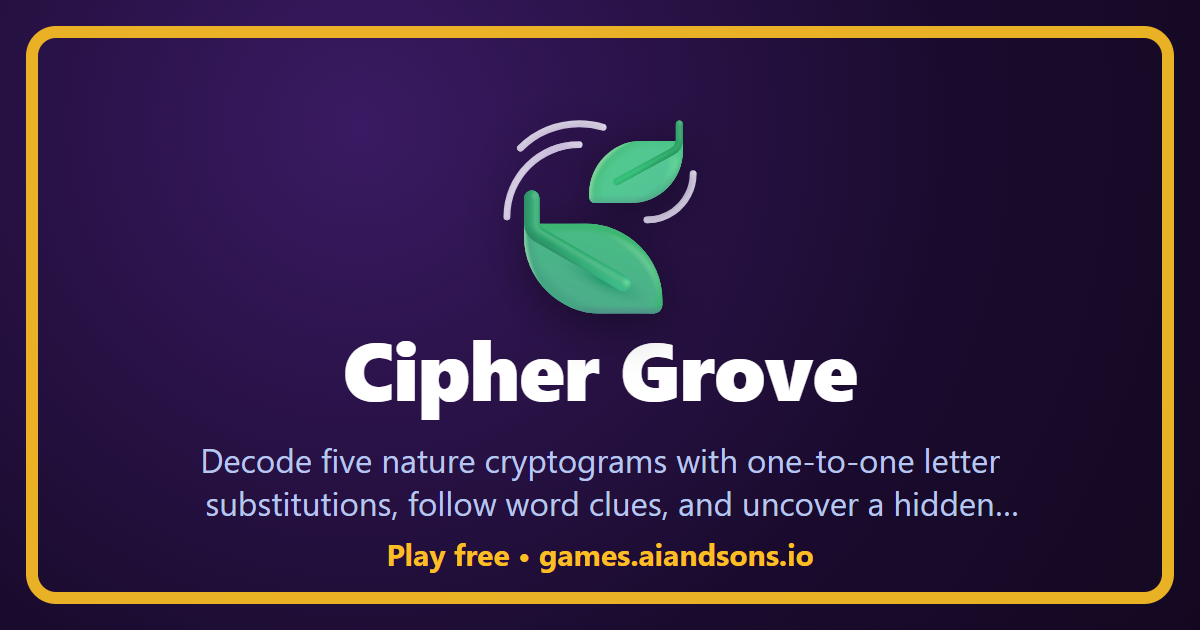
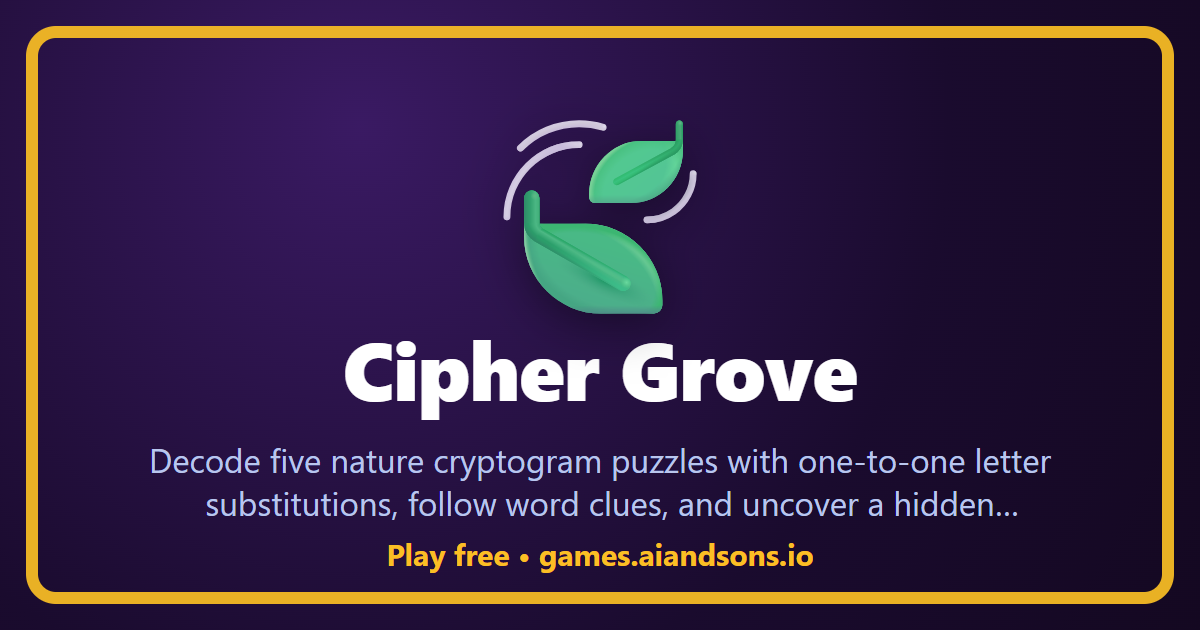
Fix Cipher Grove discovery and edit accounting
Include the new game in puzzle discovery and count bulk-clear and undo letter changes. Repeated full browser matrix, feedback smoke, scoped byte proof and all seven ordered release gates; shared quota behavior independently verified.

Changed region(s): [[0.1233, 0.6937, 0.8942, 0.754]]

diff --git a/ciphergrove/index.html b/ciphergrove/index.html
@@ -5,10 +5,10 @@
 </style>
 
   <!-- SEO:BEGIN -->
-  <meta name="description" content="Decode five nature cryptograms with one-to-one letter substitutions, follow word clues, and uncover a hidden woodland message. Play for free on AI and Sons Games.">
+  <meta name="description" content="Decode five nature cryptogram puzzles with one-to-one letter substitutions, follow word clues, and uncover a hidden woodland message. Play for free on AI and Sons Games.">
   <meta name="robots" content="index,follow,max-image-preview:large,max-snippet:-1,max-video-preview:-1">
   <meta property="og:title" content="Cipher Grove | AI and Sons Games">
-  <meta property="og:description" content="Decode five nature cryptograms with one-to-one letter substitutions, follow word clues, and uncover a hidden woodland message. Play for free on AI and Sons Games.">
+  <meta property="og:description" content="Decode five nature cryptogram puzzles with one-to-one letter substitutions, follow word clues, and uncover a hidden woodland message. Play for free on AI and Sons Games.">
   <meta property="og:type" content="website">
   <meta property="og:url" content="https://games.aiandsons.io/ciphergrove">
   <meta property="og:image" content="https://games.aiandsons.io/assets/og/ciphergrove.png">
@@ -18,10 +18,10 @@
   <meta property="og:locale" content="en_US">
   <meta name="twitter:card" content="summary_large_image">
   <meta name="twitter:title" content="Cipher Grove | AI and Sons Games">
-  <meta name="twitter:description" content="Decode five nature cryptograms with one-to-one letter substitutions, follow word clues, and uncover a hidden woodland message. Play for free on AI and Sons Games.">
+  <meta name="twitter:description" content="Decode five nature cryptogram puzzles with one-to-one letter substitutions, follow word clues, and uncover a hidden woodland message. Play for free on AI and Sons Games.">
   <meta name="twitter:image" content="https://games.aiandsons.io/assets/og/ciphergrove.png">
   <link rel="canonical" href="https://games.aiandsons.io/ciphergrove">
-  <script type="application/ld+json" data-seo-managed="true">{"@context":"https://schema.org","@type":"VideoGame","name":"Cipher Grove","description":"Decode five nature cryptograms with one-to-one letter substitutions, follow word clues, and uncover a hidden woodland message. Play for free on AI and Sons Games.","url":"https://games.aiandsons.io/ciphergrove","gamePlatform":"Web Browser","genre":"Arcade","applicationCategory":"Game","inLanguage":"en-US","isAccessibleForFree":true,"publisher":{"@id":"https://games.aiandsons.io#organization"},"isPartOf":{"@id":"https://games.aiandsons.io#games"}}</script>
+  <script type="application/ld+json" data-seo-managed="true">{"@context":"https://schema.org","@type":"VideoGame","name":"Cipher Grove","description":"Decode five nature cryptogram puzzles with one-to-one letter substitutions, follow word clues, and uncover a hidden woodland message. Play for free on AI and Sons Games.","url":"https://games.aiandsons.io/ciphergrove","gamePlatform":"Web Browser","genre":"Arcade","applicationCategory":"Game","inLanguage":"en-US","isAccessibleForFree":true,"publisher":{"@id":"https://games.aiandsons.io#organization"},"isPartOf":{"@id":"https://games.aiandsons.io#games"}}</script>
   <!-- SEO:END -->
 </head><body><main><a href="/">← Back to games</a><header><p class="eyebrow">LETTERS FROM THE WOODLAND</p><h1>Cipher Grove</h1><p class="intro">Decode five hidden nature phrases. Each cipher letter always stands for the <strong>same plain letter</strong>; two cipher letters cannot share a plain letter. Gold leaves are given. Use the word clue or reveal a letter when stuck.</p></header>
 <canvas id="game" width="800" height="640" tabindex="0" aria-label="Woodland cryptogram; tap a cipher tile then choose its plain letter"></canvas>
@@ -55,8 +55,8 @@ function restart(){if(s)report('abandoned');const theme=s?.theme||0;s={mode:'men
 function start(){if(['won','lost'].includes(s.mode))restart();if(s.mode==='menu'){s.started=true;s.mode='play';}else if(s.mode==='between'){s.level++;load();s.mode='play';}render();}
 function snapshot(){s.history.push({...s.map});}
 function assign(value){if(s.mode!=='play')return;const c=symbols()[s.selected];if(s.fixed.includes(c)){s.message='This gold leaf is given. Select an unsolved cipher tile.';render();return;}if(s.map[c]===value||(!value&&!s.map[c]))return;if(value&&Object.entries(s.map).some(([k,v])=>k!==c&&v===value)){s.message=value+' is already used. Erase its other guess first.';render();return;}snapshot();if(value)s.map[c]=value;else delete s.map[c];s.edits=Math.min(999,s.edits+1);s.message=value?'Every '+c+' now reads '+value+'.':'Guess erased.';render();}
-function undo(){if(s.mode!=='play'||!s.history.length)return;s.map=s.history.pop();s.message='Last guess undone.';render();}
-function clear(){if(s.mode!=='play'||!Object.keys(s.map).some(c=>!s.fixed.includes(c)))return;snapshot();for(const c of Object.keys(s.map))if(!s.fixed.includes(c))delete s.map[c];s.message='Guesses cleared; given leaves stay.';render();}
+function undo(){if(s.mode!=='play'||!s.history.length)return;const previous=s.history.pop();s.edits=Math.min(999,s.edits+symbols().filter(c=>s.map[c]!==previous[c]).length);s.map=previous;s.message='Last guess undone.';render();}
+function clear(){if(s.mode!=='play'||!Object.keys(s.map).some(c=>!s.fixed.includes(c)))return;snapshot();s.edits=Math.min(999,s.edits+Object.keys(s.map).filter(c=>!s.fixed.includes(c)).length);for(const c of Object.keys(s.map))if(!s.fixed.includes(c))delete s.map[c];s.message='Guesses cleared; given leaves stay.';render();}
 function hint(){if(s.mode!=='play')return;const cs=symbols(),selected=cs[s.selected],c=!s.fixed.includes(selected)&&s.map[selected]!==answer(selected)?selected:cs.find(k=>s.map[k]!==answer(k));if(!c){s.message='All letters read correctly. Check the phrase!';render();return;}const value=answer(c);for(const k of Object.keys(s.map))if(k!==c&&s.map[k]===value)delete s.map[k];s.map[c]=value;s.fixed.push(c);s.history=[];s.reveals=Math.min(130,s.reveals+1);s.message='Revealed '+c+' → '+value+'. Undo history cleared to keep this leaf.';render();}
 function check(){if(s.mode!=='play')return;if(symbols().every(c=>s.map[c]===answer(c))){s.solved++;s.mode=s.solved===levels.length?'won':'between';s.message=s.mode==='won'?'All five woodland messages uncovered. A wonderful walk!':'Message uncovered: '+level().phrase+'. Continue into the grove.';if(s.mode==='won')report('completed');}else{s.mistakes++;s.message=symbols().some(c=>!s.map[c])?'Some letters are still blank. Use the clue or reveal a leaf.':'The phrase does not fit yet. Reconsider a guessed letter.';if(s.mistakes===3){s.mode='lost';s.message='Three incorrect checks. Start another walk and try the clues or reveals.';report('lost');}}render();}
 function focus(){canvas.focus({preventScroll:true});}

diff --git a/src/meta/games.js b/src/meta/games.js
@@ -243,7 +243,7 @@ const BASE_GAMES = [
   { slug:'ribbonruler', name:'Ribbon Ruler', emoji:'\u{1F4CF}', scoreHint:'rulers', url:'/ribbonruler', desc:'Place ribbon marks so every pair has a unique distance across five measuring puzzles.', earnsCoins:false },
   { slug:'festivalflags', name:'Festival Flags', emoji:'\u{1F38F}', scoreHint:'courtyards', url:'/festivalflags', desc:'Dye connected flags with three letters, keep neighboring flags different, and solve five courtyard graph-coloring puzzles.', earnsCoins:false },
   { slug:'harbormatch', name:'Harbor Match', emoji:'\u2693', scoreHint:'manifests', url:'/harbormatch', desc:'Assign compatible berths to every boat, avoid double bookings, and solve five harbor matching puzzles.', earnsCoins:false },
-  { slug:'ciphergrove', name:'Cipher Grove', emoji:'\u{1F343}', scoreHint:'phrases', url:'/ciphergrove', desc:'Decode five nature cryptograms with one-to-one letter substitutions, follow word clues, and uncover a hidden woodland message.', earnsCoins:false },
+  { slug:'ciphergrove', name:'Cipher Grove', emoji:'\u{1F343}', scoreHint:'phrases', url:'/ciphergrove', desc:'Decode five nature cryptogram puzzles with one-to-one letter substitutions, follow word clues, and uncover a hidden woodland message.', earnsCoins:false },
 ];
 
 export const GAME_DISCOVERY_CATEGORIES = Object.freeze([

diff --git a/progress.md b/progress.md
@@ -5066,3 +5066,5 @@ pm run test:feedback and the Playwright gameplay validation loop for /solarskiff
 - Next: ordered final runner, semantic/staged audit, guarded PR and exact-SHA production verification.
 - All seven ordered final gates PASS: maintenance,243-game preflight,telemetry39/39,feedback41/41,shop75/75,social23/23,diff check. Native Back Enter additionally proves one normalized725ms abandonment (synchronous test-only storage capture survives unload; no production storage added).
 - Next: exact semantic/staged review, authoritative lane audit, guarded publication and exact-SHA verification.
+- PR426 review: added puzzle wording to the new entry so both word/puzzle filters include it; clear and undo now count every changed guess in bounded edits. Targeted category, bulk-edit and reveal-to-completion checks PASS. Quota reproduction proves shared save returns before storage writes and terminal loss renders; async storage rejection and cross-tab snapshot merging are shared infrastructure outside the daily allowlist. No shared changes added.
+- Complete supplied-client/159-assertion keyboard+touch matrix, feedback smoke and scoped byte proof repeated PASS after review fixes; latest screenshots re-inspected. Repeating ordered gates and authoritative audit before restoring ready PR status.
